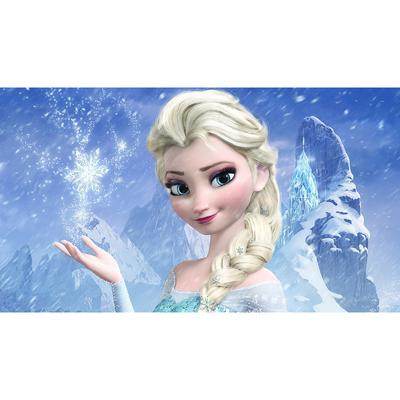
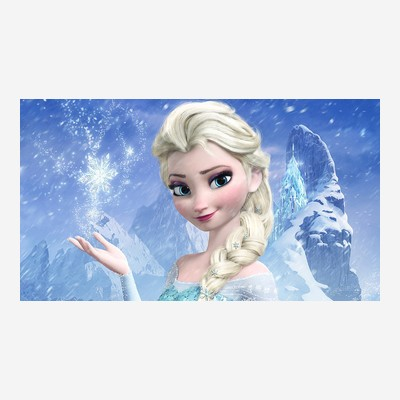
Kid Space: swap duplicate Elsa (107→057), gray-canvas padded thumbnails

diff --git a/hf-kid-space/app.py b/hf-kid-space/app.py
@@ -24,7 +24,7 @@ EX = "examples"
 # Display order: grouped by character.
 EXAMPLE_PATHS = [
     f"{EX}/olaf_009.png", f"{EX}/olaf_028.png", f"{EX}/olaf_004.png",
-    f"{EX}/elsa_026.jpg", f"{EX}/elsa_084.jpg", f"{EX}/elsa_107.jpg",
+    f"{EX}/elsa_026.jpg", f"{EX}/elsa_084.jpg", f"{EX}/elsa_057.jpg",
     f"{EX}/sven_004.jpg", f"{EX}/sven_005.jpg", f"{EX}/sven_008.jpg",
 ]
 # Square padded thumbnails for a clean, uniform gallery grid (display only).
@@ -38,7 +38,7 @@ CORRECT_PART = {
     "olaf_004.png": "Face",
     "elsa_026.jpg": "Hands",
     "elsa_084.jpg": "Dress / body",
-    "elsa_107.jpg": "Hair / braid",
+    "elsa_057.jpg": "Face / eyes",
     "sven_004.jpg": "Fuzzy face & mane",
     "sven_005.jpg": "Fuzzy face & mane",
     "sven_008.jpg": "Fuzzy face & mane",
